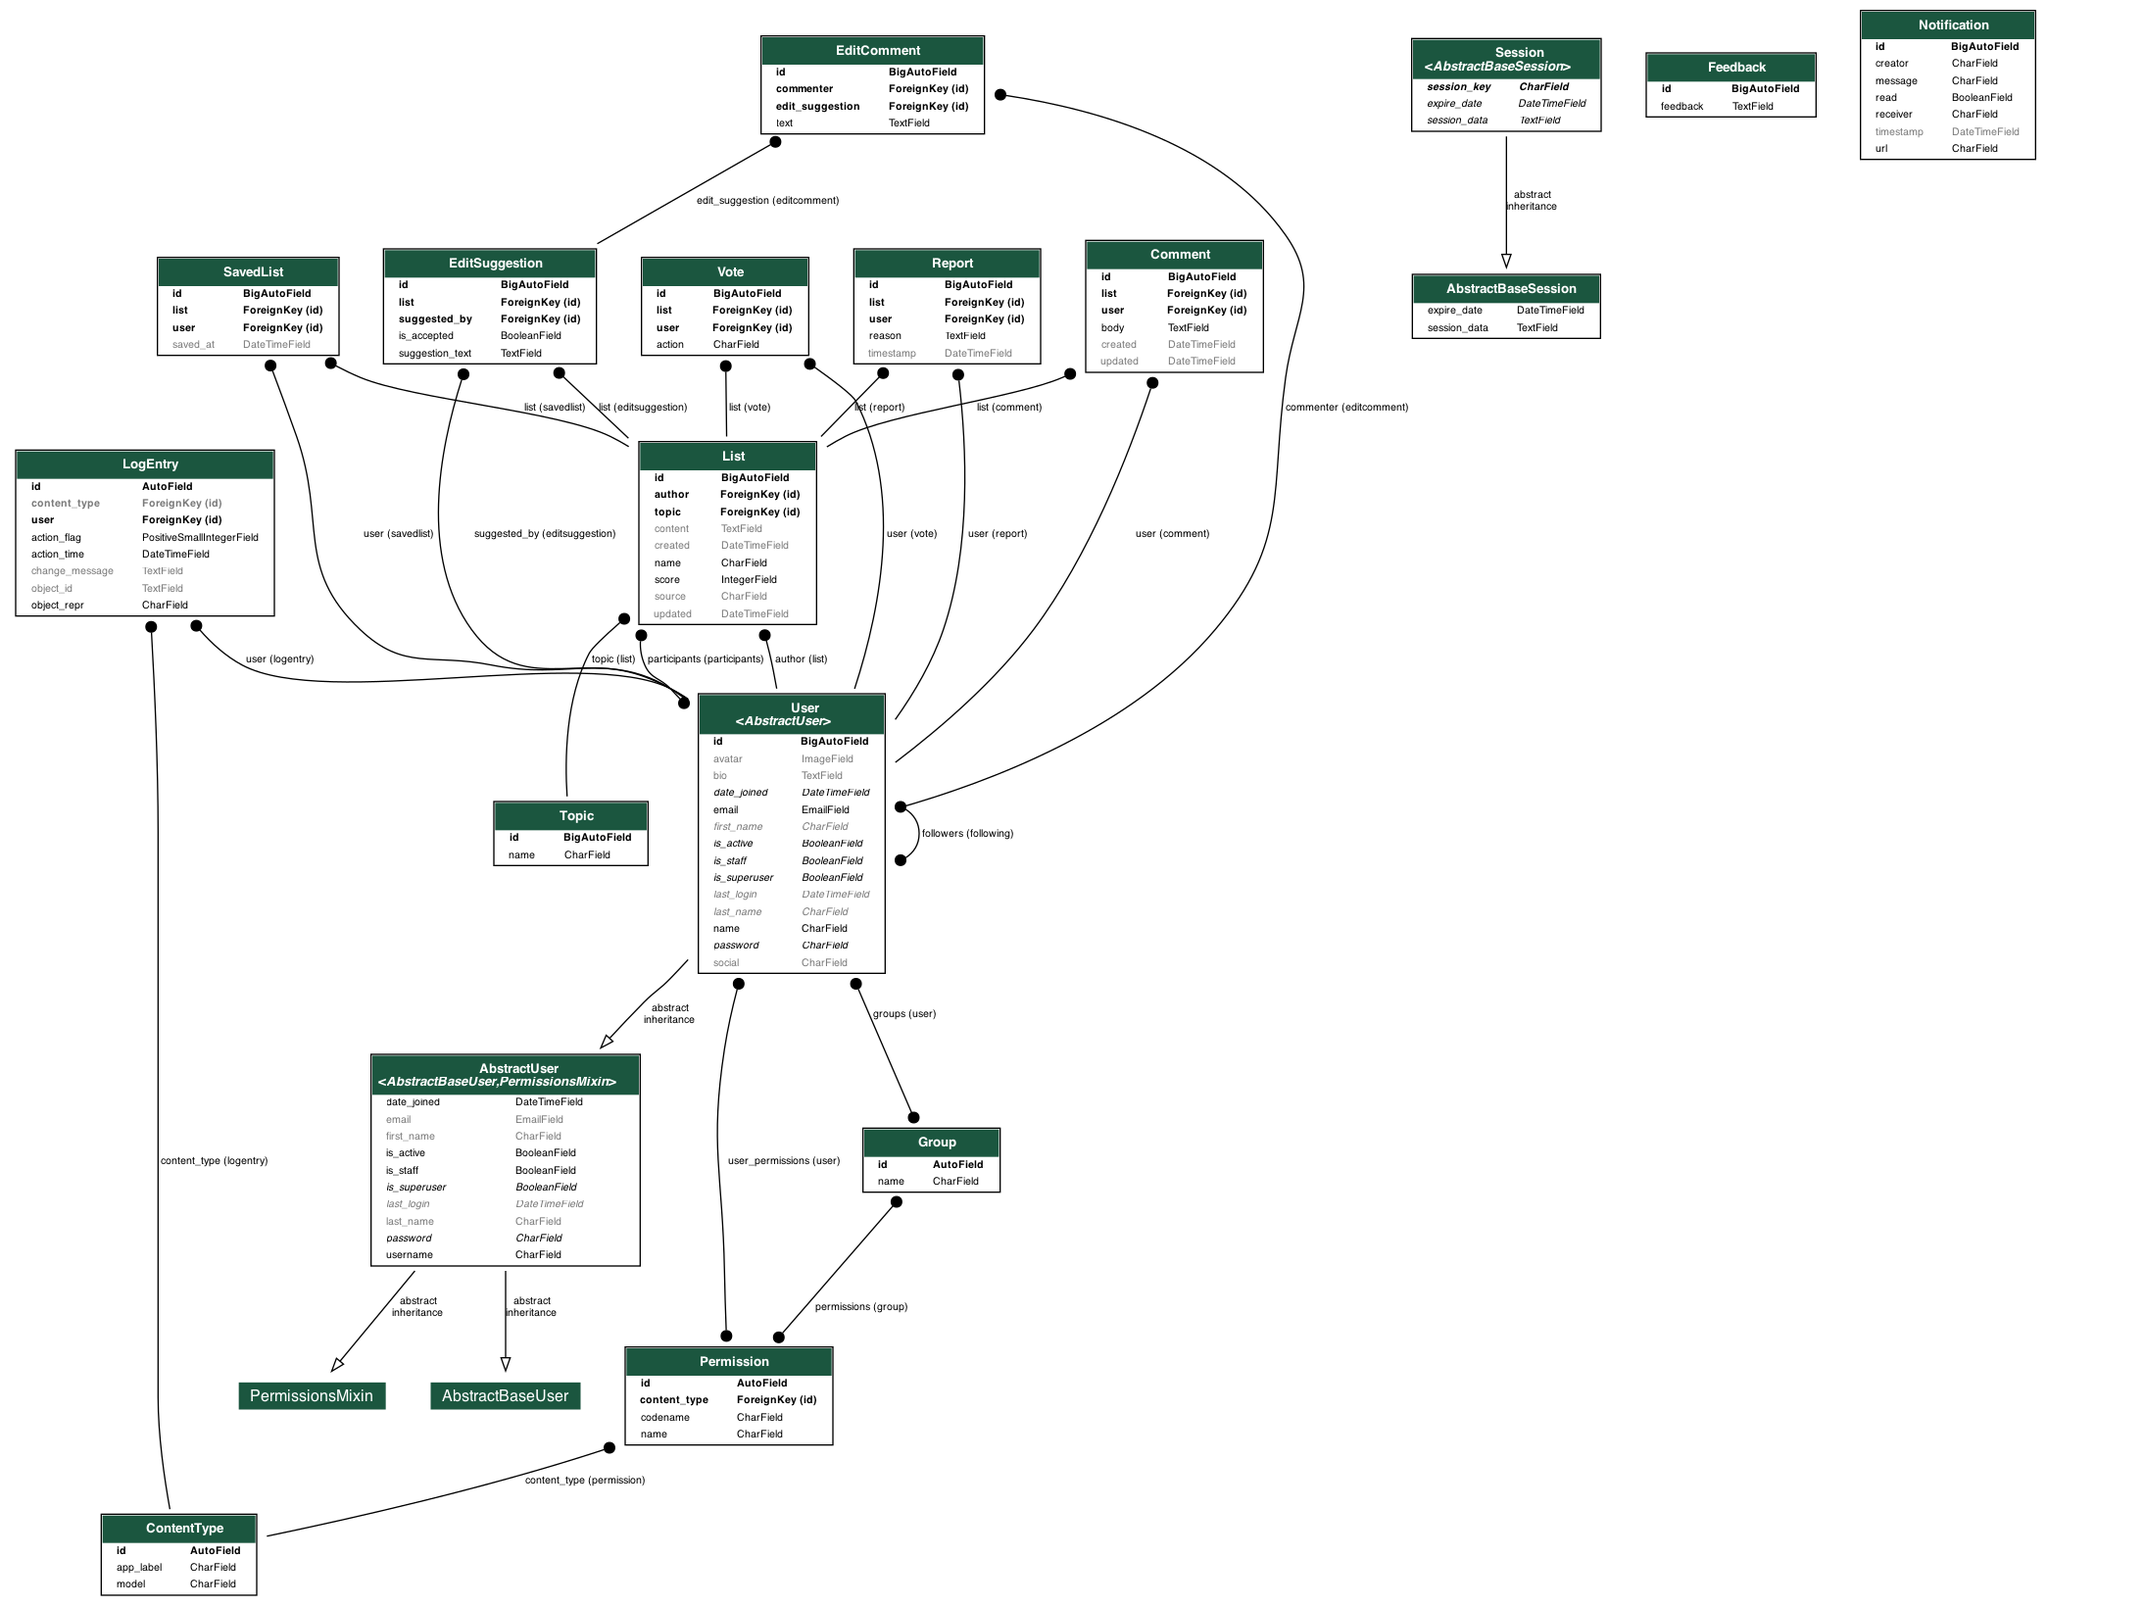
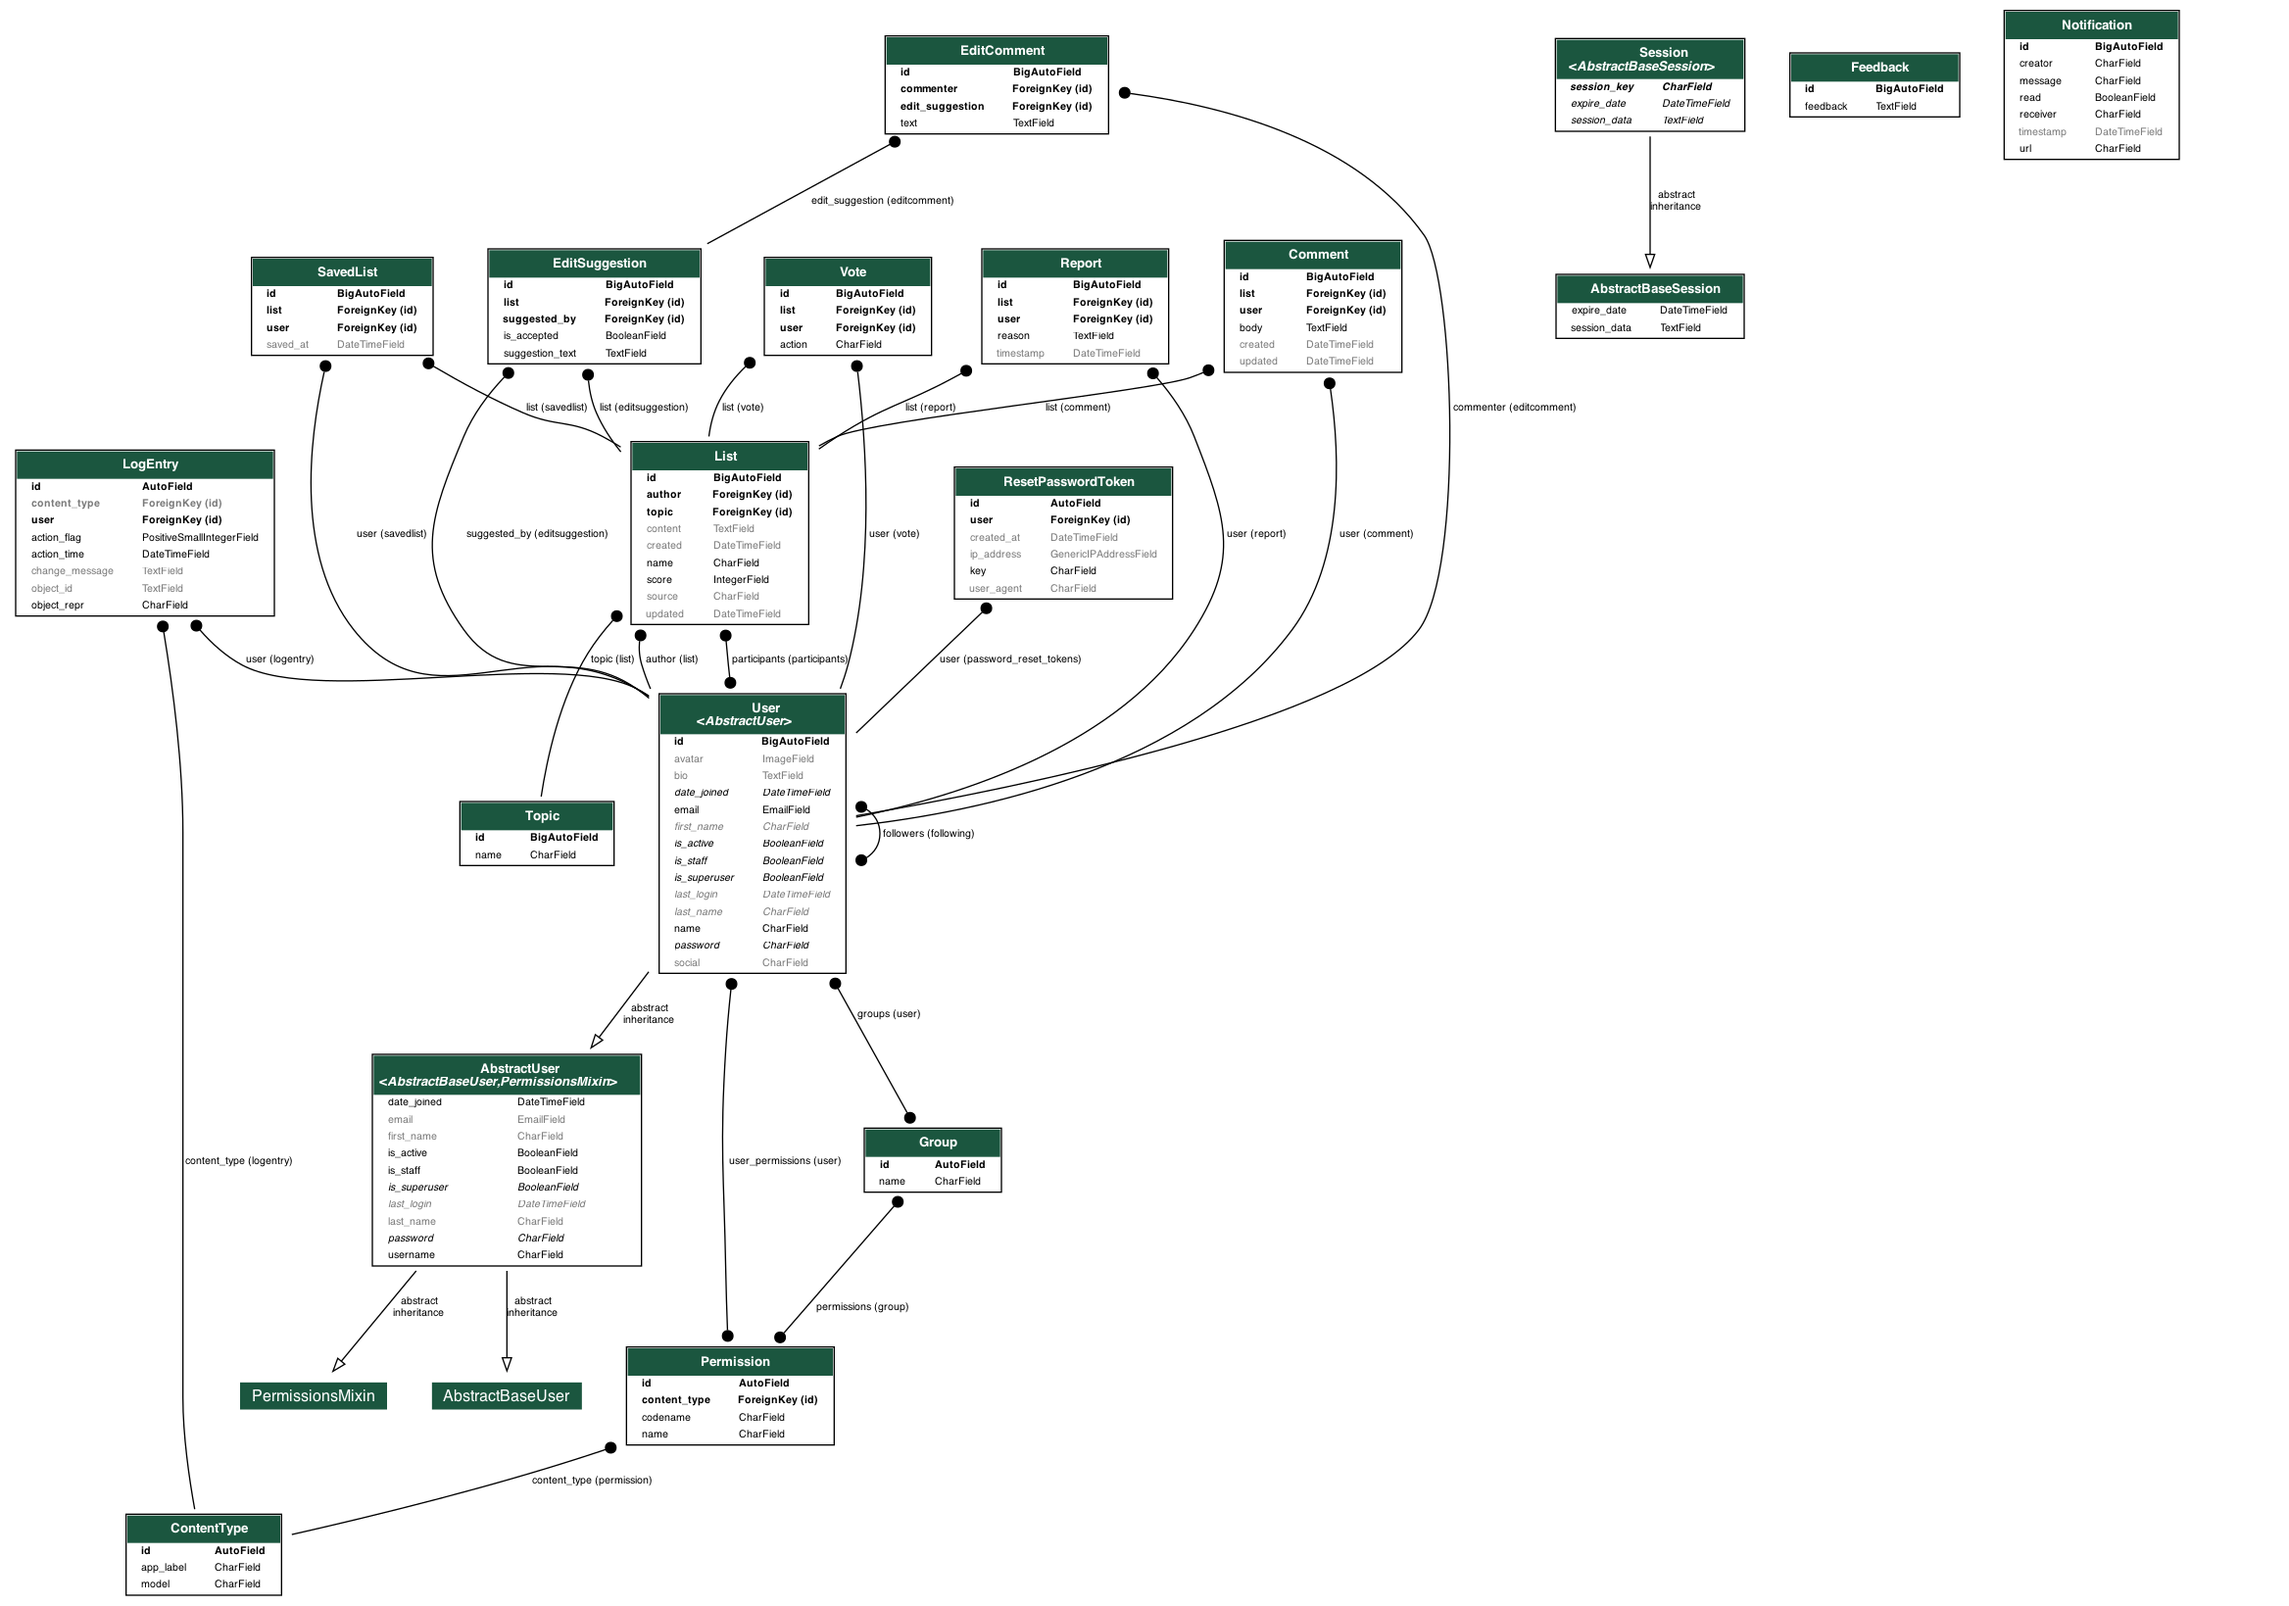
reset password email notification system

diff --git a/sapiensApp/templates/pages/password_reset_confirm.html b/sapiensApp/templates/pages/password_reset_confirm.html
@@ -1,0 +1,21 @@
+{% extends 'main.html' %}
+
+{% block title %}Enter new password{% endblock %}
+
+{% block content %}
+
+{% if validlink %}
+
+<h1>Set a new password!</h1>
+<form method="POST">
+  {% csrf_token %}
+  {{ form.as_p }}
+  <input type="submit" value="Change my password">
+</form>
+
+{% else %}
+
+<p>The password reset link was invalid, possibly because it has already been used. Please request a new password reset.</p>
+
+{% endif %}
+{% endblock %}

diff --git a/sapiensApp/templates/pages/password_reset_form.html b/sapiensApp/templates/pages/password_reset_form.html
@@ -1,0 +1,14 @@
+{% extends 'main.html' %}
+
+{% block title %}Forgot Your Password?{% endblock %}
+
+{% block content %}
+  <h1>Forgot your password?</h1>
+  <p>Enter your email address below, and we'll email instructions for setting a new one.</p>
+
+  <form method="POST">
+    {% csrf_token %}
+    {{ form.as_p }}
+    <input type="submit" value="Get instructions">
+  </form>
+{% endblock %}

diff --git a/sapiensApp/templates/pages/password_reset_complete.html b/sapiensApp/templates/pages/password_reset_complete.html
@@ -1,0 +1,8 @@
+{% extends 'main.html' %}
+
+{% block title %}Password reset complete{% endblock %}
+
+{% block content %}
+<h1>Password reset complete</h1>
+<p>Your new password has been set. You can log in now on the <a href=" {% url 'login' %}">log in page</a>.</p>
+{% endblock %}

diff --git a/sapiensApp/templates/pages/login_register.html b/sapiensApp/templates/pages/login_register.html
@@ -41,6 +41,8 @@
           </button>
         </form>
 
+        <p><a href="{% url 'password_reset' %}">Forgot Password?</a></p>
+
         <div class="auth__action">
           <p>New here?</p>
           <a href="{% url 'register' %}" class="btn btn--link">Sign Up</a>

diff --git a/sapiensApp/templates/pages/password_reset_done.html b/sapiensApp/templates/pages/password_reset_done.html
@@ -1,0 +1,8 @@
+{% extends 'main.html' %}
+
+{% block title %}Email Sent{% endblock %}
+
+{% block content %}
+  <h1>Check your inbox.</h1>
+  <p> We've emailed you instructions for setting your password. You should receive the email shortly!</p>
+{% endblock %}

diff --git a/sapiensApp/urls.py b/sapiensApp/urls.py
@@ -1,6 +1,7 @@
 from django.urls import path
 from django.views.generic.base import TemplateView
 from . import views
+from django.contrib.auth import views as auth_views
 
 urlpatterns = [
     path('login/', views.loginPage, name="login"),
@@ -28,4 +29,8 @@ urlpatterns = [
     path('about/', TemplateView.as_view(template_name='pages/about.html'), name='about'),
     path('contacts/', TemplateView.as_view(template_name='pages/contacts.html'), name='contacts'),
     path('saved_lists/<str:pk>', views.savedListsPage, name="saved_lists"),
+    path('reset_password', auth_views.PasswordResetView.as_view(template_name='pages/password_reset_form.html'), name="password_reset"),
+    path('reset_password_sent', auth_views.PasswordResetDoneView.as_view(template_name='pages/password_reset_done.html'), name="password_reset_done"),
+    path('reset/<uidb64>/<token>/', auth_views.PasswordResetConfirmView.as_view(template_name='pages/password_reset_confirm.html'), name="password_reset_confirm"),
+    path('reset_password_complete', auth_views.PasswordResetCompleteView.as_view(template_name='pages/password_reset_complete.html'), name="password_reset_complete"),
 ]

diff --git a/sapiensLink/settings.py b/sapiensLink/settings.py
@@ -12,6 +12,7 @@ https://docs.djangoproject.com/en/3.2/ref/settings/
 
 from pathlib import Path
 from datetime import timedelta
+import app_secrets
 
 # Build paths inside the project like this: BASE_DIR / 'subdir'.
 BASE_DIR = Path(__file__).resolve().parent.parent
@@ -44,6 +45,7 @@ INSTALLED_APPS = [
     'corsheaders',
     'channels',
     'django_extensions',
+    'django_rest_passwordreset',
 ]
 
 REST_FRAMEWORK = {
@@ -167,3 +169,13 @@ DEFAULT_AUTO_FIELD = 'django.db.models.BigAutoField'
 CORS_ALLOW_ALL_ORIGINS = True
 
 ASGI_APPLICATION = 'sapiensLink.asgi.application'
+
+#TODO: Safely story sendgrid api key
+DEFAULT_FROM_EMAIL = 'sapienslink@gmail.com'
+SENDGRID_API_KEY = app_secrets.SENDGRID_API_KEY
+EMAIL_HOST = 'smtp.sendgrid.net'
+EMAIL_HOST_USER = 'apikey' # this is exactly the value 'apikey'
+EMAIL_HOST_PASSWORD = SENDGRID_API_KEY
+EMAIL_PORT = 587
+EMAIL_USE_TLS = True
+
